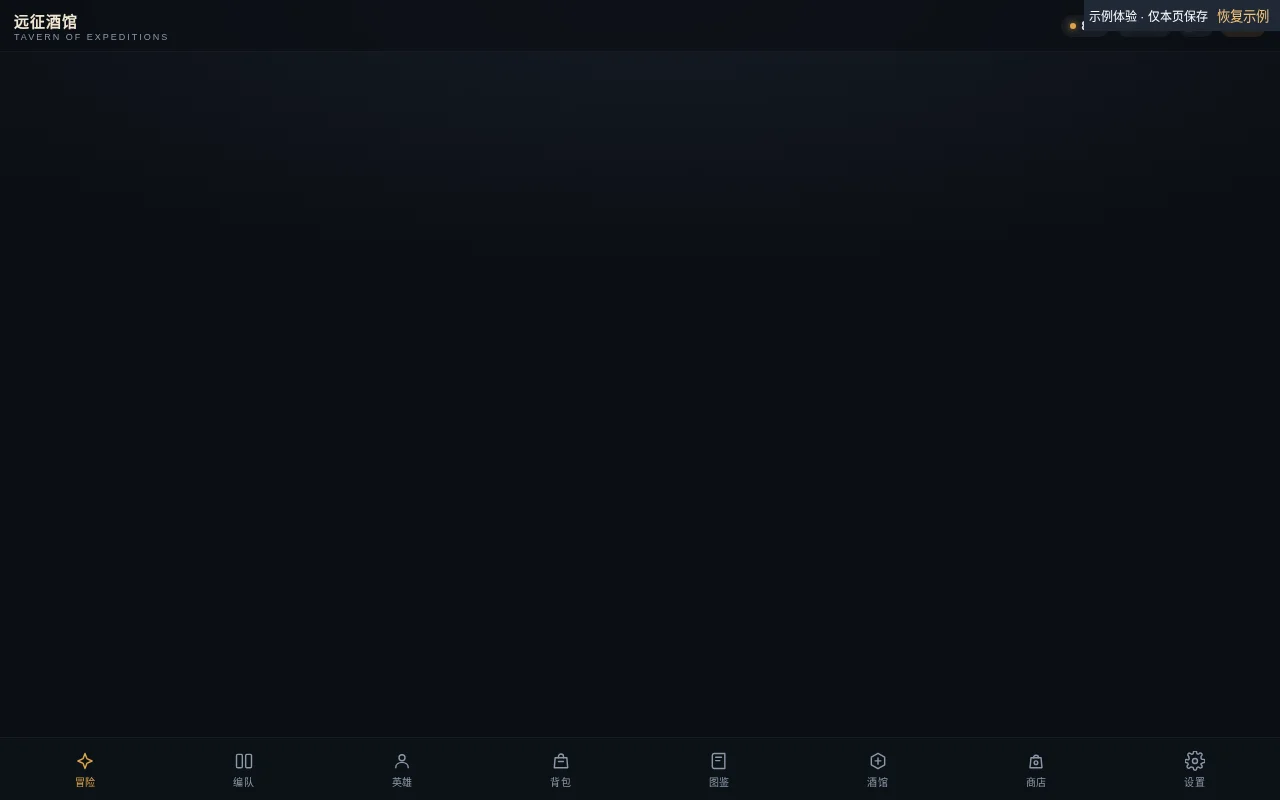
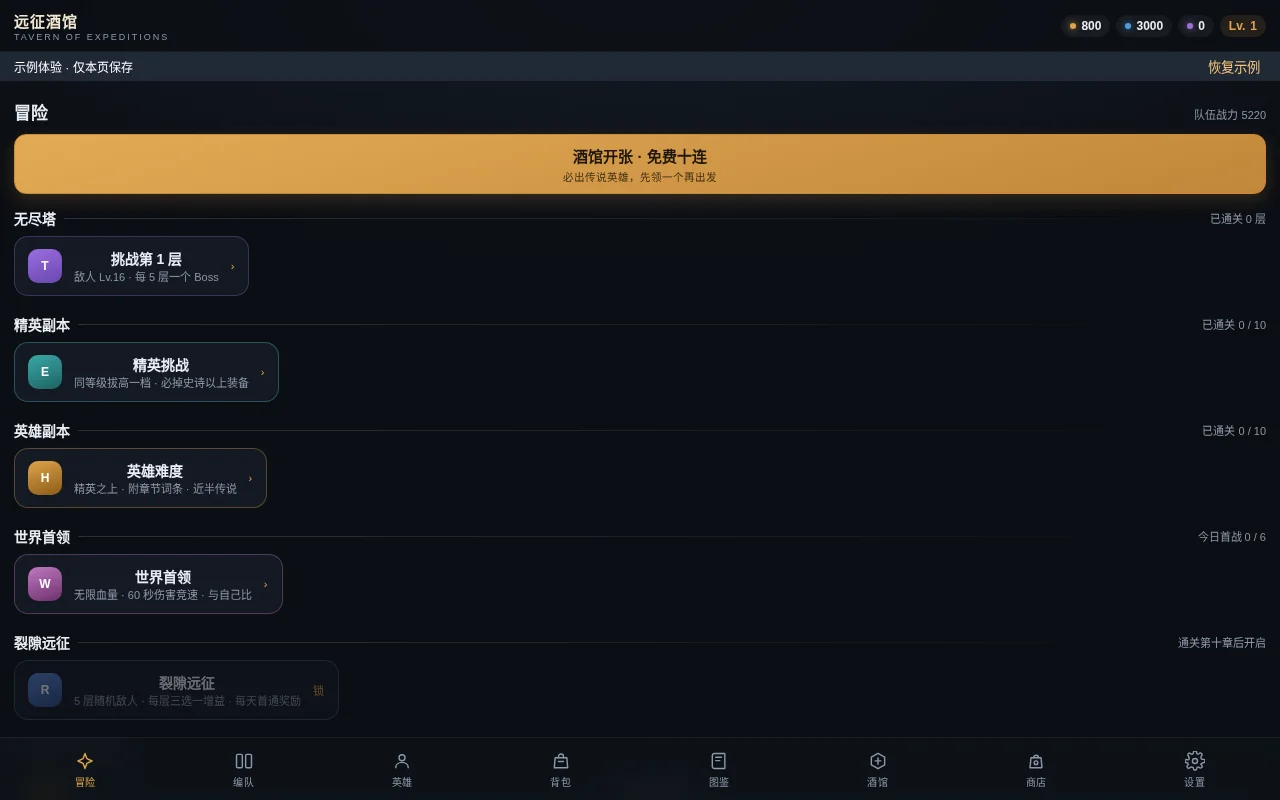
Add expedition tavern template

diff --git a/fb25377e58403282adddf855/showcase/preview.html b/fb25377e58403282adddf855/showcase/preview.html
@@ -5786,9 +5786,9 @@ document.addEventListener('click', function(e){
 /* ---------- 启动 ---------- */
 S = load();
 var demoBar = document.createElement('div');
-demoBar.style.cssText='position:fixed;top:0;right:0;z-index:999;background:#202836;color:white;padding:5px;font:12px sans-serif';
+demoBar.style.cssText='flex:0 0 auto;display:flex;justify-content:space-between;align-items:center;background:#202836;color:white;padding:4px 14px;font:12px sans-serif';
 demoBar.innerHTML='示例体验 · 仅本页保存 <button type="button" style="color:#f4c477" id="demo-reset">恢复示例</button>';
-document.body.appendChild(demoBar);
+$('#app').insertBefore(demoBar, $('#main'));
 demoBar.querySelector('#demo-reset').addEventListener('click',function(){
   if(rafId) cancelAnimationFrame(rafId); rafId=0; B=null; curStage=null; pickSlot=-1;
   codexTab='hero'; lastPull=null; bagFilter=''; riftOffer=[]; cells={}; ultEls={}; ultKey=''; floatQueue=[]; acc=0; lastTs=0; uiSpeed=1;
